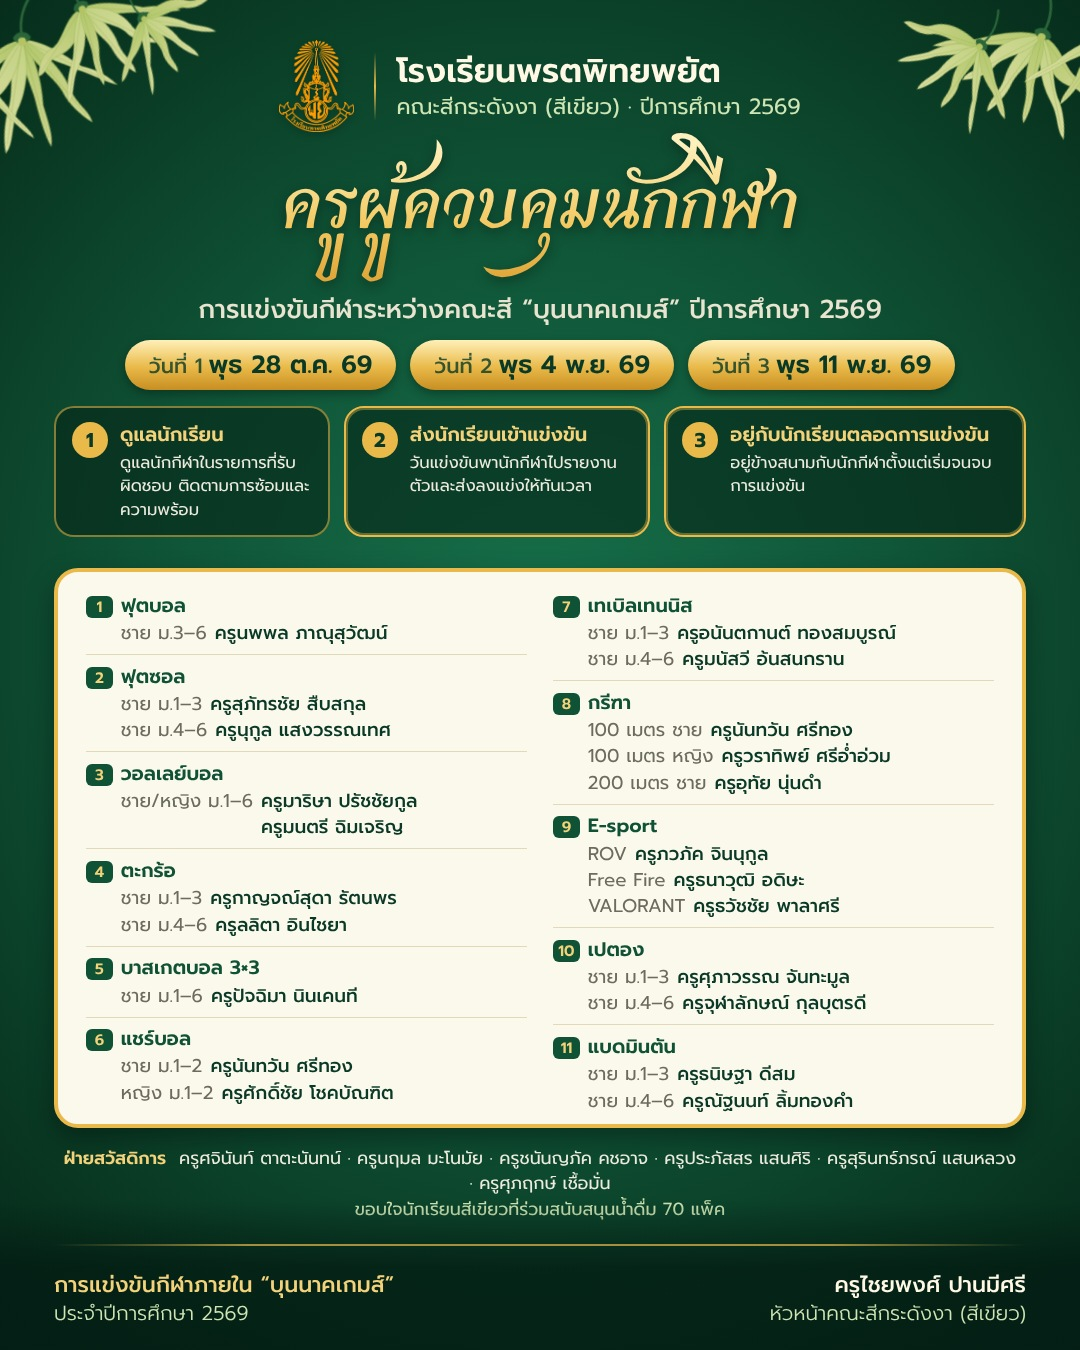
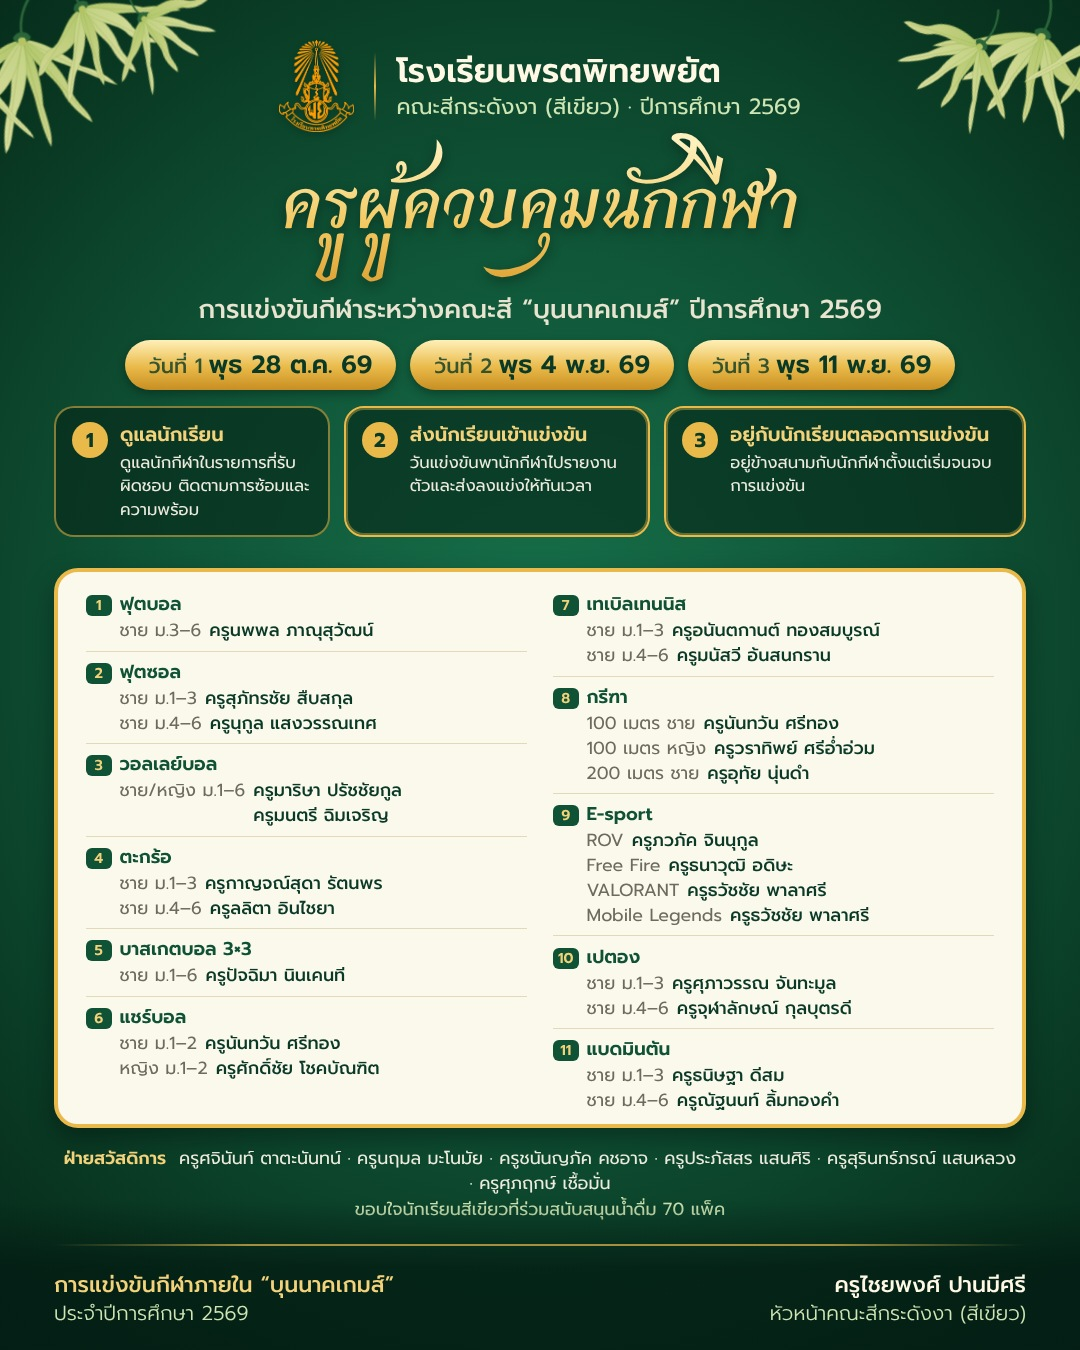
เพิ่มครูผู้ควบคุม Mobile Legends (ครูธวัชชัย พาลาศรี)
Claude-Session: https://claude.ai/code/session_01UR4mgbaQE4dUUxnv9uLxRu

Changed region(s): [[0.0611, 0.4356, 0.3972, 0.84], [0.4889, 0.4356, 0.825, 0.84]]

diff --git a/data/coaches.js b/data/coaches.js
@@ -1,9 +1,9 @@
-// ครูคณะสีกระดังงาผู้ควบคุมนักกีฬา บุนนาคเกมส์ 2569 (ข้อมูลจากพี่ต้น 22 ต.ค. 2569)
+// ครูคณะสีกระดังงาผู้ควบคุมนักกีฬา บุนนาคเกมส์ 2569 (ข้อมูลจากพี่ต้น 22 ต.ค. 2569 · เพิ่มครูผู้ควบคุม Mobile Legends 26 ต.ค. 2569)
 // coaches: รายการแข่งขัน -> ครูสีเขียวที่ดูแล (pending = จำนวนครูที่ยังรอประกาศชื่อ) · ชื่อครูต้องตรงกับ data/teachers.js เพื่อดึงรูป
 window.KD = window.KD || {};
 KD.coachMeta = {
  "title": "ครูผู้ควบคุมนักกีฬา บุนนาคเกมส์ 2569",
- "updated": "22 ต.ค. 2569",
+ "updated": "26 ต.ค. 2569",
  "days": [
   {
    "date": "2026-10-28",
@@ -72,7 +72,7 @@ KD.coaches = [
   {"no": 9, "sport": "E-sport", "div": "ROV", "teachers": ["ครูภวภัค จินนุกูล"], "pending": 0},
   {"no": 9, "sport": "E-sport", "div": "Free Fire", "teachers": ["ครูธนาวุฒิ อดิษะ"], "pending": 0},
   {"no": 9, "sport": "E-sport", "div": "VALORANT", "teachers": ["ครูธวัชชัย พาลาศรี"], "pending": 0},
-  {"no": 9, "sport": "E-sport", "div": "Mobile Legends", "teachers": [], "pending": 0},
+  {"no": 9, "sport": "E-sport", "div": "Mobile Legends", "teachers": ["ครูธวัชชัย พาลาศรี"], "pending": 0},
   {"no": 10, "sport": "เปตอง", "div": "ชาย ม.1–3", "teachers": ["ครูศุภาวรรณ จันทะมูล"], "pending": 0},
   {"no": 10, "sport": "เปตอง", "div": "ชาย ม.4–6", "teachers": ["ครูจุฬาลักษณ์ กุลบุตรดี"], "pending": 0},
   {"no": 10, "sport": "เปตอง", "div": "หญิง ม.1–3", "teachers": [], "pending": 0},
